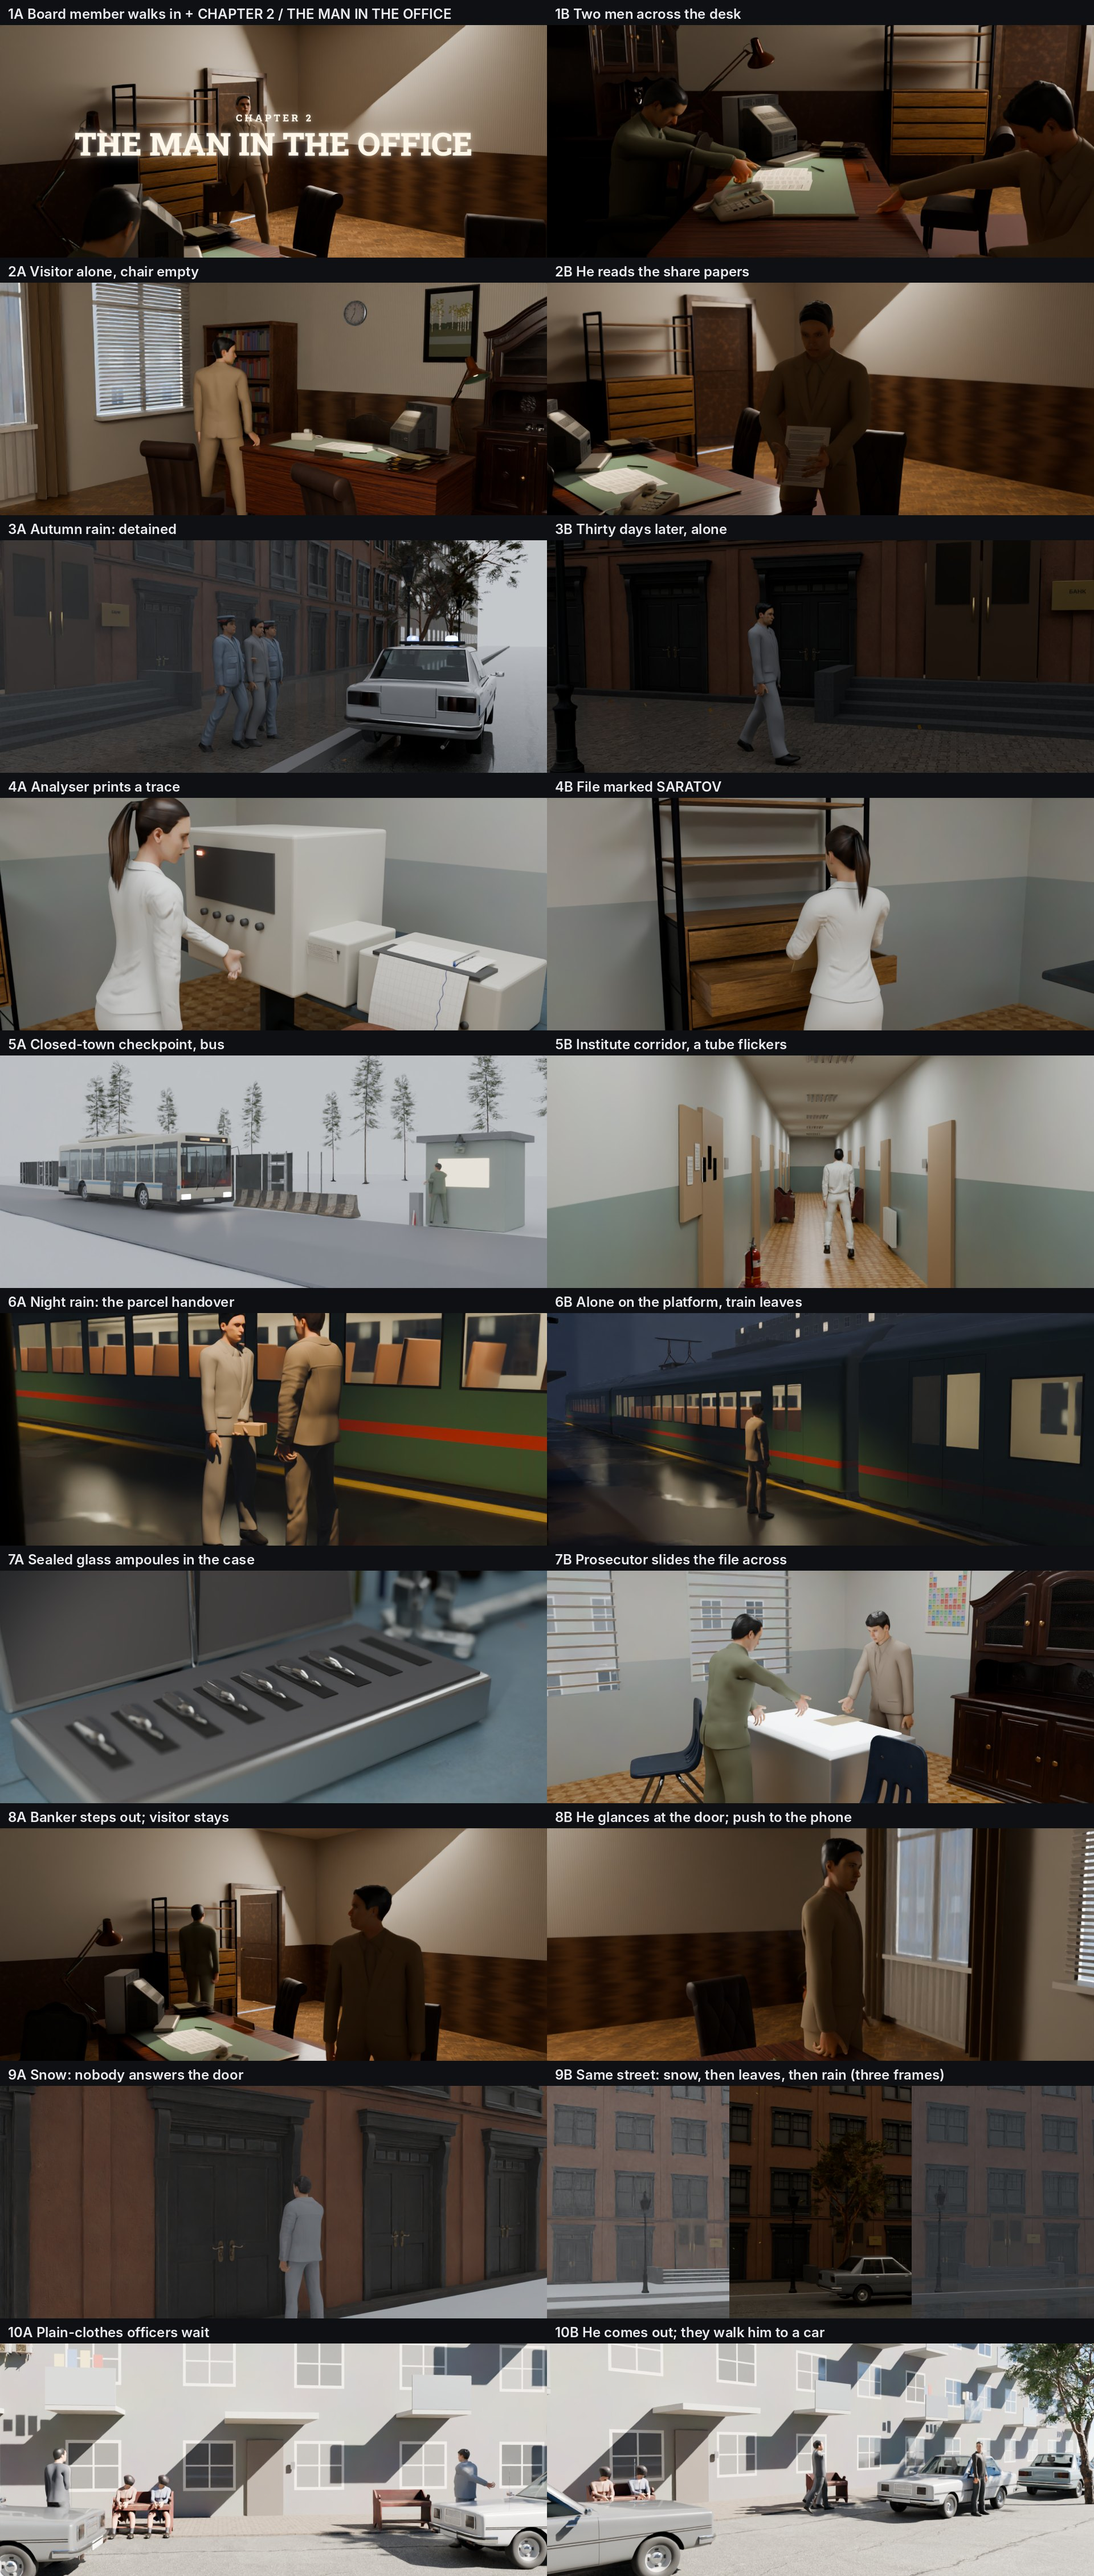
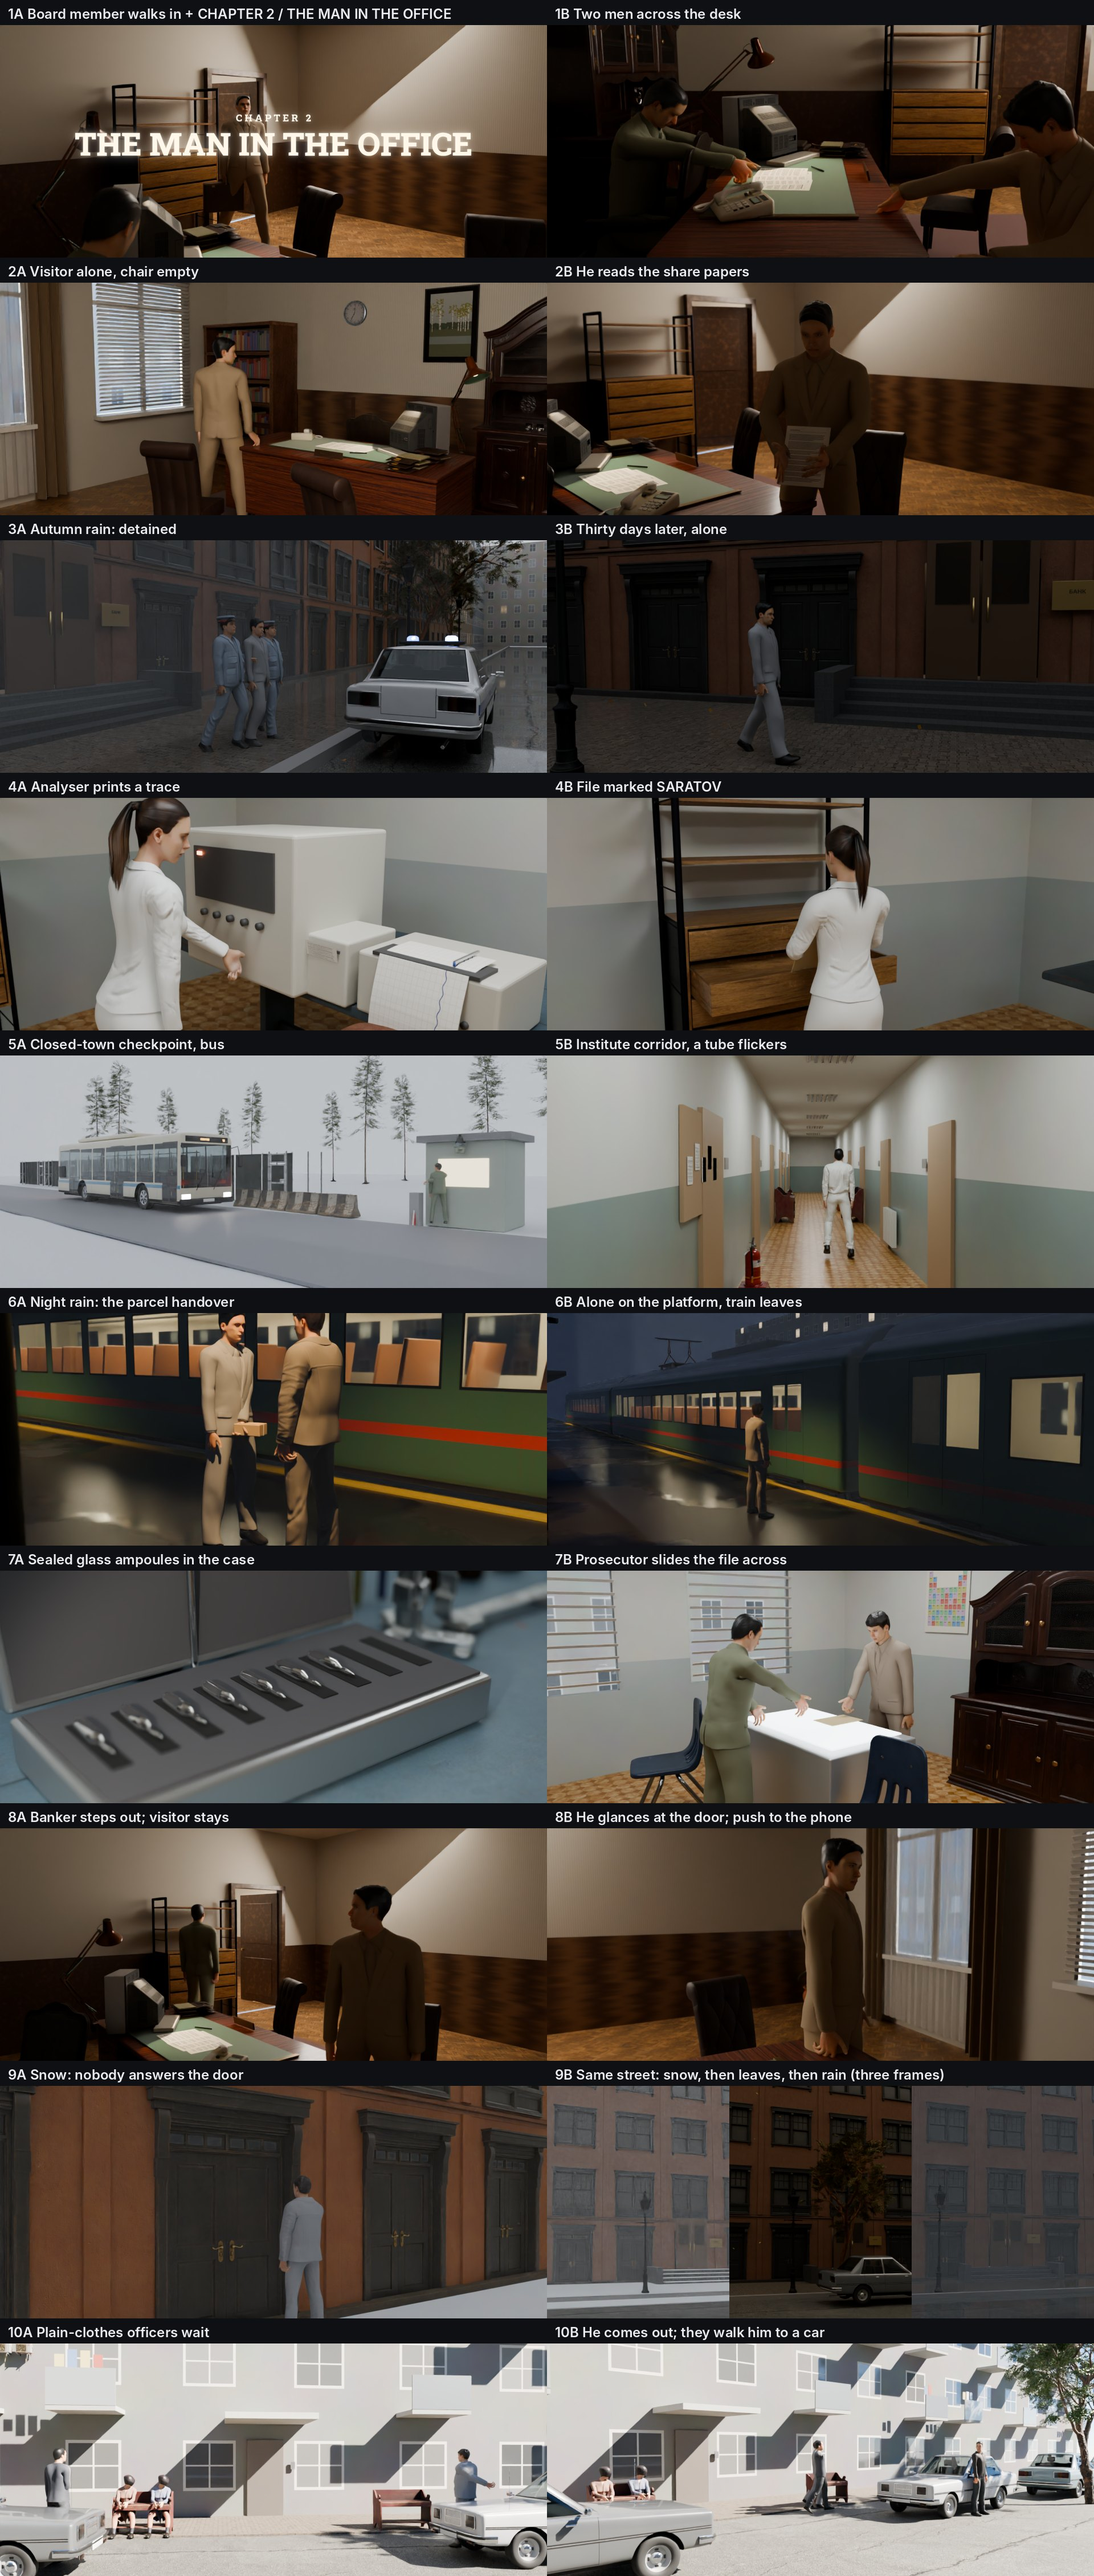
Phone banker: women's Tyvek suits use the full coverall (no bare arms)
Claude-Session: https://claude.ai/code/session_01XfwPSnGcwN4iGzjHJz672Z

Changed region(s): [[0.3438, 0.1872, 0.5, 0.3119]]

diff --git a/projects/phone-banker/scenes/pbpeople.py b/projects/phone-banker/scenes/pbpeople.py
@@ -242,7 +242,7 @@ def protective_gear(h, suit=(0.9, 0.91, 0.93), full_face=True, gloves=(0.15, 0.3
 
 def tyvek(name, gender=1.0, years=38, police_bg=False):
     """A forensic investigator in a full Tyvek suit (pale, matte), hood up, full-face respirator, gloves, overshoes."""
-    cloth = "male_casualsuit01" if gender > 0.5 else "female_casualsuit01"
+    cloth = "male_casualsuit01"                                                    # the full coverall on everyone: no bare arms or legs
     h = person(name, gender, years, cloth, None, col=(0.9, 0.91, 0.93))
     protective_gear(h)
     return h
